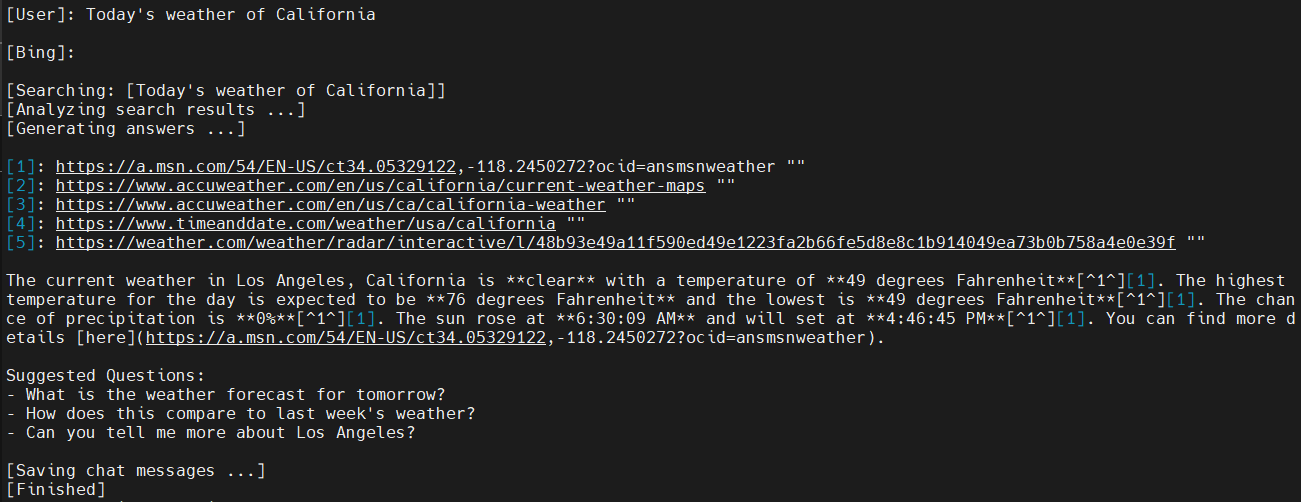
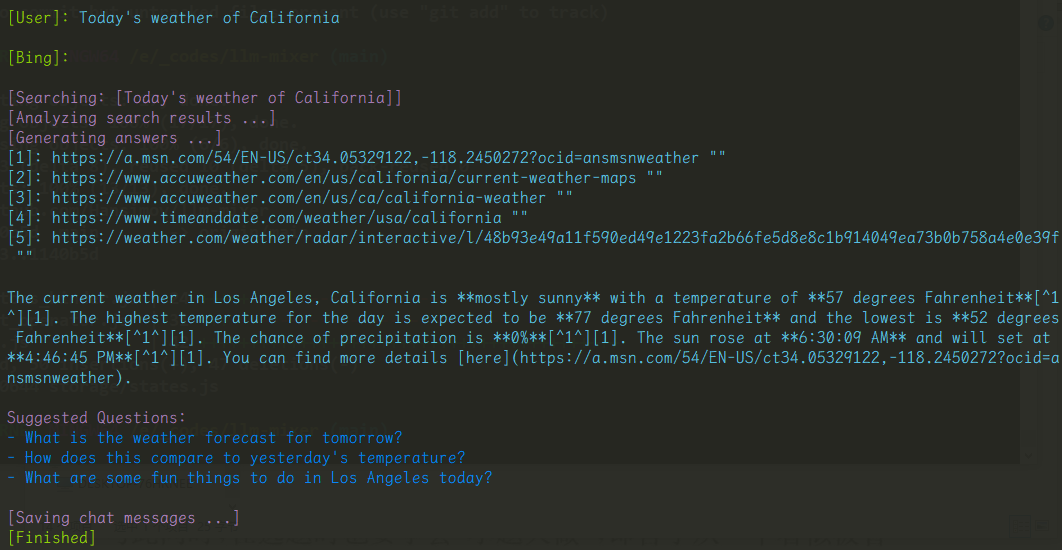
:zap: [Enhance] Logger with no terminator

diff --git a/conversation_creater.py b/conversation_creater.py
@@ -126,14 +126,14 @@ class ConversationConnector:
                                     "text"
                                 ]
                                 delta_content = message_html[delta_content_pointer:]
-                                print(delta_content, end="", flush=True)
+                                logger.mesg(delta_content, end="")
                                 delta_content_pointer = len(message_html)
 
                                 if message.get("suggestedResponses"):
-                                    logger.note("\nSuggested Questions: ")
+                                    logger.note("\n\nSuggested Questions: ")
                                     for suggestion in message.get("suggestedResponses"):
                                         suggestion_text = suggestion.get("text")
-                                        logger.mesg(f"- {suggestion_text}")
+                                        logger.file(f"- {suggestion_text}")
 
                             elif message_type in ["InternalSearchQuery"]:
                                 message_hidden_text = message["hiddenText"]
@@ -181,8 +181,9 @@ if __name__ == "__main__":
         conversation_id=creator.response_content["conversationId"],
     )
     prompt = "Today's weather of California"
-    logger.info(f"\n[User]: {prompt}\n")
-    logger.info(f"[Bing]:")
+    logger.success(f"\n[User]: ", end="")
+    logger.mesg(f"{prompt}")
+    logger.success(f"\n[Bing]:")
     loop = asyncio.get_event_loop()
     loop.run_until_complete(conversation_connector.stream_chat(prompt=prompt))
     loop.close()

diff --git a/logger/logger.py b/logger/logger.py
@@ -137,7 +137,17 @@ class Logger:
         if quiet:
             self.restore_level()
 
-    def log(self, method, msg, indent=0, fill=False, fill_side="both", *args, **kwargs):
+    def log(
+        self,
+        method,
+        msg,
+        indent=0,
+        fill=False,
+        fill_side="both",
+        end="\n",
+        *args,
+        **kwargs,
+    ):
         if type(msg) == str:
             msg_str = msg
         else:
@@ -156,6 +166,8 @@ class Logger:
         indented_msg = "\n".join([f"{indent_str}{line}" for line in msg_lines])
         if fill:
             indented_msg = add_fillers(indented_msg, fill_side=fill_side)
+        handler = self.logger.handlers[0]
+        handler.terminator = end
         getattr(self.logger, level)(colored(indented_msg, color), *args, **kwargs)
 
     def bind_functions(self):
